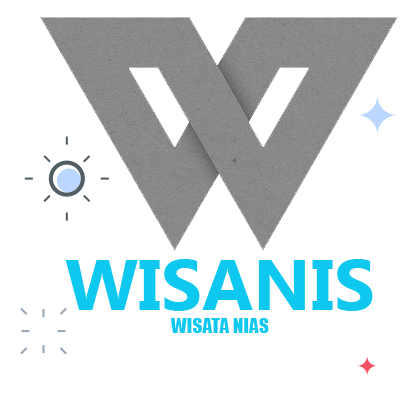
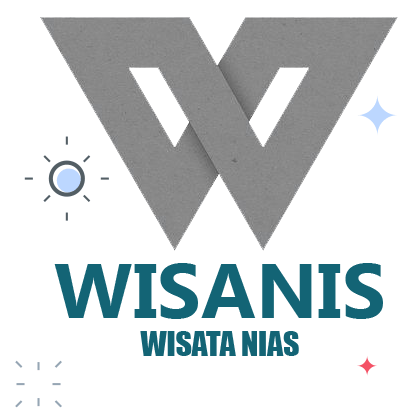
tambah map di konfigurasi page

diff --git a/src/pages/konfigurasi/konfigurasi.ts b/src/pages/konfigurasi/konfigurasi.ts
@@ -1,14 +1,27 @@
-import { Component } from '@angular/core';
-import { IonicPage, NavController, NavParams } from 'ionic-angular';
+import { Component, ViewChild, ElementRef } from '@angular/core';
+import { IonicPage, NavController, NavParams, ViewController } from 'ionic-angular';
 import { PetunjukPage } from '../petunjuk/petunjuk';
 import { HomePage } from '../home/home';
 
+declare var google;
 @IonicPage()
 @Component({
   selector: 'page-konfigurasi',
   templateUrl: 'konfigurasi.html',
 })
 export class KonfigurasiPage {
+
+  //untuk maps
+  @ViewChild('map') mapElement: ElementRef;
+  map: any;
+  start = 'chicago, il';
+  end = 'chicago, il';
+  directionsService = new google.maps.DirectionsService;
+  directionsDisplay = new google.maps.DirectionsRenderer;
+
+  //end maps
+
+  public backgroundImage = 'assets/img/background/background-6.jpg';
   cards = [
     {
       imageUrl: 'assets/img/card/advance-card-map-paris.png',
@@ -33,7 +46,7 @@ export class KonfigurasiPage {
   }
 
   ionViewDidLoad() {
-    console.log('ionViewDidLoad KonfigurasiPage');
+    this.initMap();
   }
 
   petunjuk(){
@@ -57,5 +70,61 @@ export class KonfigurasiPage {
   gotoHome(){
     this.navCtrl.push(HomePage);
   }
+
+  //ini untuk maps
+  //ini initMap
+
+  initMap() {
+    this.map = new google.maps.Map(this.mapElement.nativeElement, {
+      zoom: 17,
+      center: {
+        lat: 1.284692, lng: 97.622924,
+        mapTypeId: google.maps.MapTypeId.HYBRID
+      }
+    }
+  );
+    this.directionsDisplay.setMap(this.map);
+  }
+
+  calculateAndDisplayRoute() {
+    this.directionsService.route({
+      origin: this.start,
+      destination: this.end,
+      travelMode: 'DRIVING'
+    }, (response, status) => {
+      if (status === 'OK') {
+        this.directionsDisplay.setDirections(response);
+      } else {
+        window.alert('Directions request failed due to ' + status);
+      }
+    });
+  }
+
+  addMarker(){
+    
+     let marker = new google.maps.Marker({
+       map: this.map,
+       animation: google.maps.Animation.DROP,
+       position: this.map.getCenter()
+     });
+    
+     let content = "<h4>Information!</h4>";         
+    
+     this.addInfoWindow(marker, content);
+    
+   }
+
+   addInfoWindow(marker, content){
+    
+     let infoWindow = new google.maps.InfoWindow({
+       content: content
+     });
+    
+     google.maps.event.addListener(marker, 'click', () => {
+       infoWindow.open(this.map, marker);
+     });
+    
+   }
+
 
 }

diff --git a/src/pages/konfigurasi/konfigurasi.html b/src/pages/konfigurasi/konfigurasi.html
@@ -1,16 +1,9 @@
-<ion-header no-border>
-  <ion-navbar>
-    <ion-title>Lokasi dan Bahasa</ion-title>
-  </ion-navbar>
-</ion-header>
+<ion-content class="transparent-header" [ngStyle]="{'background-image': 'url(' + backgroundImage +')'}" padding>
+    <img class="logo" src="assets/imgs/komponen/Konfigurasi.png" />
 
+  <div #map id="map"></div>
 
-<ion-content padding>
-  <section class="housing-image"
-  [ngStyle]="{ 'background-image': 'url(' + estateProperty.image + ')'}">
-  </section>
-
-  <ion-card *ngFor="let card of cards" class="adv-map">
+  <!-- <ion-card *ngFor="let card of cards" class="adv-map">
     <div class="map-image">
         <ion-fab right top>
           <button ion-fab class="fab-map pop-in" (click)="seeInMap(card)">
@@ -18,7 +11,7 @@
         </button>
         </ion-fab>
     </div>
-  </ion-card>
+  </ion-card> -->
   <!-- ini untuk pilih bahasa -->
   <ion-item>
       <ion-label>Lokasi</ion-label>
@@ -45,18 +38,12 @@
       </ion-select>
     </ion-item>
 
-    <ion-card>
-          <ion-card-header>
-            Keterangan
-          </ion-card-header>
-          <ion-card-content>
-            Bahasa yang dipilih akan memudahkan kamu menggunakan aplikasi!
-          </ion-card-content>
-
-    </ion-card>
+    <button ion-button block round (click)="gotoHome()" color="light" class="login-button">Simpan</button>
 </ion-content>
-<ion-footer>
+
+<!-- ini untuk button footer -->
+<!-- <ion-footer>
     <button ion-button large full no-margin color="danger" (click)="gotoHome()" >
       Simpan
     </button>
-  </ion-footer>
+  </ion-footer> -->

diff --git a/src/pages/konfigurasi/konfigurasi.scss b/src/pages/konfigurasi/konfigurasi.scss
@@ -6,6 +6,12 @@ page-konfigurasi {
   $content-color: whitesmoke;
   $detail-background: rgba(35, 225, 247, 0.8);
 
+  ion-content {
+    background-size: cover;
+    background-position: center;
+    background-repeat: no-repeat;
+    border-color: transparent;
+  }
  /* Header */
  .toolbar-background {
      background: rgba(49, 161, 216, 0.67);
@@ -55,5 +61,41 @@ page-konfigurasi {
   white-space: nowrap;
 }
 
+.logo {
+  width: 90%;
+  height: auto;
+  margin: 0 auto;
+  padding-bottom: 2%;
+}
 
+.login-button {
+  margin-top: 20px;
+  width: 100%;
+  height: 50px;
+  font-size: 1.2em;
+  span {
+    color: #136475 !important;
+  }
+  // border: 1px solid #fff;
+}
+
+//Maps
+#floating-panel {
+  position: absolute;
+  top: 10px;
+  right: 5px;
+  z-index: 5;
+  background-color: #fff;
+  padding: 5px;
+  border: 1px solid #999;
+  text-align: center;
+  font-family: 'Roboto','sans-serif';
+  line-height: 30px;
+  padding-left: 10px;
+}
+#map {
+  background-size: cover;
+  height: 40vh;
+  position: relative;
+}
 }

diff --git a/src/pages/petunjuk/petunjuk.html b/src/pages/petunjuk/petunjuk.html
@@ -1,12 +1,12 @@
 <ion-header no-border>
   <ion-navbar>
     <ion-buttons end *ngIf="showSkip">
-      <button ion-button (click)="startApp()" color="primary">Skip</button>
+      <button ion-button (click)="startApp()" color="Ctext">Skip</button>
     </ion-buttons>
   </ion-navbar>
 </ion-header>
 
-<ion-content no-bounce>
+<ion-content class="transparent-header" [ngStyle]="{'background-image': 'url(' + backgroundImage +')'}" no-bounce>
   <ion-slides #slides (ionSlideWillChange)="onSlideChangeStart($event)" pager>
 
     <ion-slide>
@@ -34,7 +34,7 @@
     <ion-slide>
       <img src="assets/imgs/start/ica-slidebox-img-4.png" class="slide-image"/>
       <h2 class="slide-title">Mari berwisata ke Nias!!</h2>
-      <button ion-button icon-end large clear (click)="startApp()">
+      <button ion-button icon-end large clear (click)="startApp()" color="Ctext">
         Let's Go!!
         <ion-icon name="arrow-forward"></ion-icon>
       </button>

diff --git a/src/pages/petunjuk/petunjuk.scss b/src/pages/petunjuk/petunjuk.scss
@@ -1,4 +1,11 @@
 page-petunjuk {
+  ion-content {
+    background-size: cover;
+    background-position: center;
+    background-repeat: no-repeat;
+    border-color: transparent;
+  }
+  
   .toolbar-background {
     background: transparent;
     border-color: transparent;

diff --git a/src/pages/petunjuk/petunjuk.ts b/src/pages/petunjuk/petunjuk.ts
@@ -14,6 +14,7 @@ import { LoginPage } from '../login/login';
   templateUrl: 'petunjuk.html',
 })
 export class PetunjukPage {
+  public backgroundImage = 'assets/img/background/background-6.jpg';
   showSkip = true;
   
   @ViewChild('slides') slides : Slides;

diff --git a/src/theme/variables.scss b/src/theme/variables.scss
@@ -38,7 +38,8 @@ $colors: (
   secondary:  #32db64,
   danger:     #f53d3d,
   light:      #f4f4f4,
-  dark:       #222
+  dark:       #222,
+  Ctext: #136475
 );
 
 
